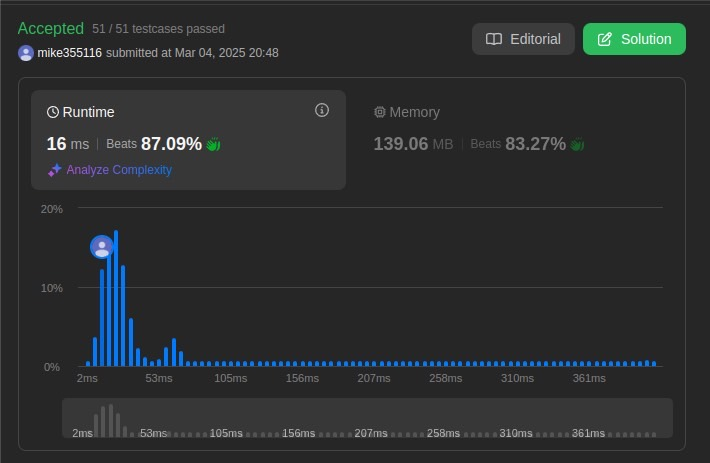
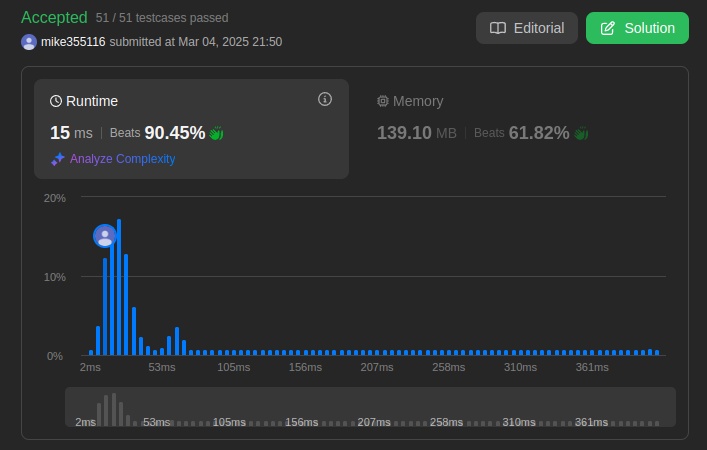
03043

diff --git a/week_1/week1_2.cpp b/week_1/week1_2.cpp
@@ -1,47 +1,53 @@
 class LFUCache {
     private:
         int capacity, minFreq;
-        unordered_map<int, pair<int, int>> keyToValFreq;
+        unordered_map<int, pair<int, int>> keyToValue;
         unordered_map<int, list<int>> freqToKeys;
         unordered_map<int, list<int>::iterator> keyToIter;
     
-        void updateFrequency(int key) {
-            int freq = keyToValFreq[key].second;
-            freqToKeys[freq].erase(keyToIter[key]);
-            if (freqToKeys[freq].empty() && freq == minFreq) {
-                minFreq++;
-            }
-            keyToValFreq[key].second++;
-            freqToKeys[freq + 1].push_back(key);
-            keyToIter[key] = --freqToKeys[freq + 1].end();
+    public:
+        LFUCache(int capacity) {
+            this->capacity = capacity;
+            this->minFreq = 0;
         }
     
-    public:
-        LFUCache(int capacity) : capacity(capacity), minFreq(0) {}
-    
         int get(int key) {
-            if (keyToValFreq.find(key) == keyToValFreq.end()) return -1;
-            updateFrequency(key);
-            return keyToValFreq[key].first;
+            if (keyToValue.find(key) == keyToValue.end()) return -1;
+
+            int value = keyToValue[key].first;
+            int freq = keyToValue[key].second;
+            keyToValue[key].second++;
+
+            freqToKeys[freq].erase(keyToIter[key]);
+            if (freqToKeys[freq].empty()) {
+                freqToKeys.erase(freq);
+                if (minFreq == freq) minFreq++;
+            }
+
+            freqToKeys[freq + 1].push_back(key);
+            keyToIter[key] = --freqToKeys[freq + 1].end();
+    
+            return value;
         }
     
         void put(int key, int value) {
             if (capacity == 0) return;
     
-            if (keyToValFreq.find(key) != keyToValFreq.end()) {
-                keyToValFreq[key].first = value;
-                updateFrequency(key);
+            if (keyToValue.find(key) != keyToValue.end()) {
+                keyToValue[key].first = value;
+                get(key);
                 return;
             }
-    
-            if (keyToValFreq.size() == capacity) {
+
+            if (keyToValue.size() >= capacity) {
                 int lfuKey = freqToKeys[minFreq].front();
                 freqToKeys[minFreq].pop_front();
-                keyToValFreq.erase(lfuKey);
+                if (freqToKeys[minFreq].empty()) freqToKeys.erase(minFreq);
+                keyToValue.erase(lfuKey);
                 keyToIter.erase(lfuKey);
             }
-    
-            keyToValFreq[key] = {value, 1};
+
+            keyToValue[key] = {value, 1};
             freqToKeys[1].push_back(key);
             keyToIter[key] = --freqToKeys[1].end();
             minFreq = 1;

diff --git a/week_1/week1_1.cpp b/week_1/week1_1.cpp
@@ -1,46 +1,34 @@
 class LRUCache {
     private:
         int capacity;
-        
-        list<pair<int, int>> cache_list;
-
-        unordered_map<int, list<pair<int, int>>::iterator> cache_map;
+        list<pair<int, int>> cacheList;
+        unordered_map<int, list<pair<int, int>>::iterator> cacheMap;
     
     public:
         LRUCache(int capacity) {
             this->capacity = capacity;
         }
-
+    
         int get(int key) {
-            auto it = cache_map.find(key);
+            if (cacheMap.find(key) == cacheMap.end()) return -1;
 
-            if (it == cache_map.end()) {
-                return -1;
-            }
-            
-            cache_list.splice(cache_list.begin(), cache_list, it->second);
-            
-            return it->second->second;
+            auto it = cacheMap[key];
+            int value = it->second;
+            cacheList.erase(it);
+            cacheList.push_front({key, value});
+            cacheMap[key] = cacheList.begin();
+            return value;
         }
-        
+    
         void put(int key, int value) {
-            auto it = cache_map.find(key);
-            
-            if (it != cache_map.end()) {
-                it->second->second = value;
-                
-                cache_list.splice(cache_list.begin(), cache_list, it->second);
-                return;
+            if (cacheMap.find(key) != cacheMap.end()) {
+                cacheList.erase(cacheMap[key]);
+            } else if (cacheList.size() >= capacity) {
+                int oldKey = cacheList.back().first;
+                cacheList.pop_back();
+                cacheMap.erase(oldKey);
             }
-
-            if (cache_list.size() >= capacity) {
-                cache_map.erase(cache_list.back().first);
-
-                cache_list.pop_back();
-            }
-
-            cache_list.push_front({key, value});
-
-            cache_map[key] = cache_list.begin();
+            cacheList.push_front({key, value});
+            cacheMap[key] = cacheList.begin();
         }
     };

diff --git a/week_1/week1_3.cpp b/week_1/week1_3.cpp
@@ -3,23 +3,22 @@ class Solution {
         vector<int> maxSlidingWindow(vector<int>& nums, int k) {
             vector<int> result;
             deque<int> dq;
-            
+    
             for (int i = 0; i < nums.size(); ++i) {
-                if (!dq.empty() && dq.front() == i - k) {
+                if (!dq.empty() && dq.front() < i - k + 1) {
                     dq.pop_front();
                 }
-                
-                while (!dq.empty() && nums[dq.back()] <= nums[i]) {
+
+                while (!dq.empty() && nums[dq.back()] < nums[i]) {
                     dq.pop_back();
                 }
-                
+
                 dq.push_back(i);
-                
+    
                 if (i >= k - 1) {
                     result.push_back(nums[dq.front()]);
                 }
             }
-            
             return result;
         }
     };
